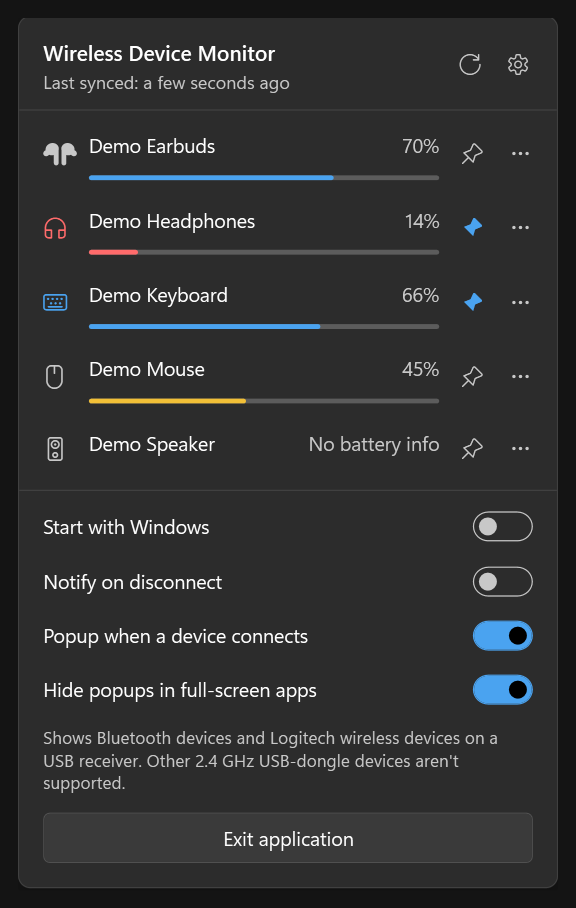
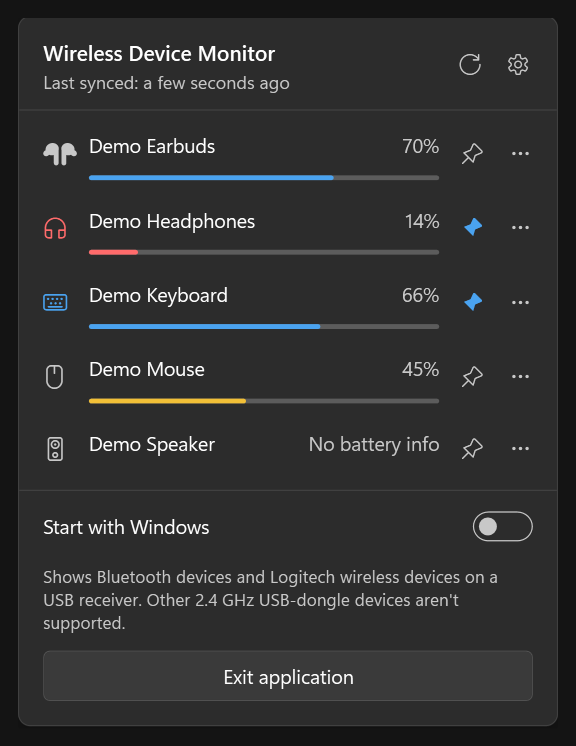
Show the second earbud going in within seconds; add a Notifications section to settings

diff --git a/src/App/FlyoutWindow.xaml b/src/App/FlyoutWindow.xaml
@@ -79,8 +79,12 @@
         <!-- Settings (shown with the gear button) -->
         <StackPanel x:Name="SettingsPanel" Visibility="Collapsed">
           <Border Height="1" Background="{DynamicResource Stroke}"/>
-          <Grid Margin="16,12,16,0">
-            <TextBlock Text="Low-battery notification" VerticalAlignment="Center"/>
+          <ScrollViewer MaxHeight="400" VerticalScrollBarVisibility="Auto">
+          <StackPanel>
+          <TextBlock Text="Notifications" Margin="16,12,16,0" FontSize="12" FontWeight="SemiBold" Foreground="{DynamicResource Fg2}"/>
+          <Grid Margin="16,10,16,0">
+            <TextBlock Text="Low battery" VerticalAlignment="Center"
+                       ToolTip="A popup when a device drops to the level below."/>
             <CheckBox x:Name="LowToggle" Style="{StaticResource Switch}" HorizontalAlignment="Right"
                       Click="LowToggle_Click" AutomationProperties.Name="Low-battery notification"/>
           </Grid>
@@ -95,6 +99,38 @@
                     ValueChanged="Threshold_Changed" AutomationProperties.Name="Low-battery threshold"/>
           </Grid>
           <Grid Margin="16,12,16,0">
+            <TextBlock Text="Device connected" VerticalAlignment="Center"
+                       ToolTip="A small pill drops down from the top of the screen for a few seconds. Devices on a USB receiver are left out."/>
+            <CheckBox x:Name="ConnectPopupToggle" Style="{StaticResource Switch}" HorizontalAlignment="Right"
+                      Click="ConnectPopupToggle_Click" AutomationProperties.Name="Popup when a device connects"/>
+          </Grid>
+          <Grid Margin="16,12,16,0">
+            <TextBlock Text="Pinned device disconnected" VerticalAlignment="Center"
+                       ToolTip="A Windows notification when a pinned device disconnects."/>
+            <CheckBox x:Name="DisconnectToggle" Style="{StaticResource Switch}" HorizontalAlignment="Right"
+                      Click="DisconnectToggle_Click" AutomationProperties.Name="Notify on disconnect"/>
+          </Grid>
+          <Grid Margin="16,12,16,0">
+            <TextBlock Text="Sound output changed" VerticalAlignment="Center"
+                       ToolTip="A popup naming the new output, however it was changed."/>
+            <CheckBox x:Name="OutputToggle" Style="{StaticResource Switch}" HorizontalAlignment="Right"
+                      Click="OutputToggle_Click" AutomationProperties.Name="Popup when the sound output changes"/>
+          </Grid>
+          <Grid Margin="16,12,16,0">
+            <TextBlock Text="Microphone changed" VerticalAlignment="Center"
+                       ToolTip="A popup naming the new microphone, however it was changed."/>
+            <CheckBox x:Name="InputToggle" Style="{StaticResource Switch}" HorizontalAlignment="Right"
+                      Click="InputToggle_Click" AutomationProperties.Name="Popup when the microphone changes"/>
+          </Grid>
+          <Grid Margin="16,12,16,0">
+            <TextBlock Text="Hide popups in full-screen apps" VerticalAlignment="Center"
+                       ToolTip="No popups while a game or video fills the screen. A low-battery warning goes to Windows notifications instead."/>
+            <CheckBox x:Name="QuietToggle" Style="{StaticResource Switch}" HorizontalAlignment="Right"
+                      Click="QuietToggle_Click" AutomationProperties.Name="Hide popups in full-screen apps"/>
+          </Grid>
+          <Border Height="1" Background="{DynamicResource Stroke}" Margin="0,14,0,0"/>
+          <TextBlock Text="General" Margin="16,12,16,0" FontSize="12" FontWeight="SemiBold" Foreground="{DynamicResource Fg2}"/>
+          <Grid Margin="16,10,16,0">
             <TextBlock Text="Accent colour" VerticalAlignment="Center"/>
             <StackPanel Orientation="Horizontal" HorizontalAlignment="Right">
               <RadioButton x:Name="AccentBlue" Style="{StaticResource Chip}" Content="Blue" GroupName="accent" Click="Accent_Click"/>
@@ -141,6 +177,8 @@
             </ItemsControl>
           </StackPanel>
           <Border Height="12"/>
+          </StackPanel>
+          </ScrollViewer>
         </StackPanel>
 
         <!-- Footer -->
@@ -149,23 +187,6 @@
           <TextBlock Text="Start with Windows" VerticalAlignment="Center"/>
           <CheckBox x:Name="StartToggle" Style="{StaticResource Switch}" HorizontalAlignment="Right"
                     Click="StartToggle_Click" AutomationProperties.Name="Start with Windows"/>
-        </Grid>
-        <Grid Margin="16,16,16,0">
-          <TextBlock Text="Notify on disconnect" VerticalAlignment="Center" ToolTip="Applies to pinned devices"/>
-          <CheckBox x:Name="DisconnectToggle" Style="{StaticResource Switch}" HorizontalAlignment="Right"
-                    Click="DisconnectToggle_Click" AutomationProperties.Name="Notify on disconnect"/>
-        </Grid>
-        <Grid Margin="16,16,16,0">
-          <TextBlock Text="Popup when a device connects" VerticalAlignment="Center"
-                     ToolTip="A small pill drops down from the top of the screen for a few seconds. Devices on a USB receiver are left out."/>
-          <CheckBox x:Name="ConnectPopupToggle" Style="{StaticResource Switch}" HorizontalAlignment="Right"
-                    Click="ConnectPopupToggle_Click" AutomationProperties.Name="Popup when a device connects"/>
-        </Grid>
-        <Grid Margin="16,16,16,0">
-          <TextBlock Text="Hide popups in full-screen apps" VerticalAlignment="Center"
-                     ToolTip="No popups while a game or video fills the screen. A low-battery warning goes to Windows notifications instead."/>
-          <CheckBox x:Name="QuietToggle" Style="{StaticResource Switch}" HorizontalAlignment="Right"
-                    Click="QuietToggle_Click" AutomationProperties.Name="Hide popups in full-screen apps"/>
         </Grid>
         <TextBlock Margin="16,14,16,0" TextWrapping="Wrap" FontSize="11.5" Foreground="{DynamicResource Fg2}"
                    Text="Shows Bluetooth devices and Logitech wireless devices on a USB receiver. Other 2.4 GHz USB-dongle devices aren't supported."/>

diff --git a/src/App/App.xaml b/src/App/App.xaml
@@ -7,6 +7,45 @@
          are set from code in Theme.cs so they follow the Windows light/dark setting. -->
     <FontFamily x:Key="Icons">Segoe Fluent Icons, Segoe MDL2 Assets</FontFamily>
 
+    <!-- A slim scroll bar that matches the panel: just a rounded thumb, no arrows and no track. -->
+    <Style x:Key="SlimThumb" TargetType="Thumb">
+      <Setter Property="Template">
+        <Setter.Value>
+          <ControlTemplate TargetType="Thumb">
+            <Border x:Name="t" CornerRadius="2" Background="{DynamicResource Fg2}" Opacity="0.45" Margin="2,0"/>
+            <ControlTemplate.Triggers>
+              <Trigger Property="IsMouseOver" Value="True"><Setter TargetName="t" Property="Opacity" Value="0.75"/></Trigger>
+              <Trigger Property="IsDragging" Value="True"><Setter TargetName="t" Property="Opacity" Value="0.9"/></Trigger>
+            </ControlTemplate.Triggers>
+          </ControlTemplate>
+        </Setter.Value>
+      </Setter>
+    </Style>
+    <Style x:Key="ScrollPage" TargetType="RepeatButton">
+      <Setter Property="Focusable" Value="False"/>
+      <Setter Property="Template">
+        <Setter.Value>
+          <ControlTemplate TargetType="RepeatButton"><Border Background="Transparent"/></ControlTemplate>
+        </Setter.Value>
+      </Setter>
+    </Style>
+    <Style TargetType="ScrollBar">
+      <Setter Property="Width" Value="8"/>
+      <Setter Property="MinWidth" Value="8"/>
+      <Setter Property="Background" Value="Transparent"/>
+      <Setter Property="Template">
+        <Setter.Value>
+          <ControlTemplate TargetType="ScrollBar">
+            <Track x:Name="PART_Track" IsDirectionReversed="True" Margin="0,4">
+              <Track.DecreaseRepeatButton><RepeatButton Style="{StaticResource ScrollPage}" Command="ScrollBar.PageUpCommand"/></Track.DecreaseRepeatButton>
+              <Track.Thumb><Thumb Style="{StaticResource SlimThumb}"/></Track.Thumb>
+              <Track.IncreaseRepeatButton><RepeatButton Style="{StaticResource ScrollPage}" Command="ScrollBar.PageDownCommand"/></Track.IncreaseRepeatButton>
+            </Track>
+          </ControlTemplate>
+        </Setter.Value>
+      </Setter>
+    </Style>
+
     <Style x:Key="IconButton" TargetType="Button">
       <Setter Property="Width" Value="32"/>
       <Setter Property="Height" Value="32"/>

diff --git a/src/App/AppController.cs b/src/App/AppController.cs
@@ -20,7 +20,8 @@ public sealed class AppController
     readonly PodsTracker _podsTracker = new();
     IReadOnlyList<DeviceReading> _raw = [];
     DateTime _lastListen = DateTime.MinValue;
-    bool _listening;
+    bool _listening, _heardPods = true;
+    readonly DispatcherTimer _podsTimer = new() { Interval = TimeSpan.FromSeconds(4) };
 
     public Settings Settings { get; }
     public HistoryStore History { get; }
@@ -55,6 +56,7 @@ public sealed class AppController
         Demo?.SeedHistory(History, DateTime.UtcNow);
         _timer = new DispatcherTimer { Interval = ScanInterval };
         _timer.Tick += async (_, _) => await RefreshAsync();
+        _podsTimer.Tick += async (_, _) => await ListenForPodsAsync();
     }
 
     public void Start()
@@ -89,14 +91,21 @@ public sealed class AppController
     /// </summary>
     async Task ListenForPodsAsync()
     {
-        if (_pods is null || _listening || !PodsTracker.Wanted(_raw)) return;
+        if (_pods is null) return;
         var now = DateTime.UtcNow;
-        bool known = _podsTracker.Enrich(_raw, now).Any(d => d.Pods is not null);
-        if (known && now - _lastListen < TimeSpan.FromMinutes(2)) return;
+        bool wanted = PodsTracker.Wanted(_raw);
+        var current = wanted ? _podsTracker.Enrich(_raw, now) : _raw;
+        bool known = current.Any(d => d.Pods is not null), oneInEar = wanted && PodsTracker.OneInEar(current);
+        // While one bud is being worn the regular 30-second scan is too slow to notice the second one going in,
+        // so a faster timer keeps listening until both are in (or out).
+        _podsTimer.IsEnabled = oneInEar;
+        if (!wanted || _listening) return;
+        if (now - _lastListen < PodsTracker.ListenGap(known, oneInEar, _heardPods)) return;
         _listening = true;
         try
         {
-            var heard = await _pods.ListenAsync(TimeSpan.FromSeconds(5));
+            var heard = await _pods.ListenAsync(TimeSpan.FromSeconds(oneInEar ? 2 : 5));
+            _heardPods = heard.Any(h => h.Rssi >= PodsTracker.MinRssi);
             _lastListen = DateTime.UtcNow;
             if (_podsTracker.Update(heard, _lastListen))
             {
@@ -105,7 +114,11 @@ public sealed class AppController
             }
         }
         catch (Exception e) { Log(e); }
-        finally { _listening = false; }
+        finally
+        {
+            _listening = false;
+            _podsTimer.IsEnabled = PodsTracker.Wanted(_raw) && PodsTracker.OneInEar(Devices);
+        }
     }
 
     void Apply(IReadOnlyList<DeviceReading> list)

diff --git a/tests/Program.cs b/tests/Program.cs
@@ -575,6 +575,12 @@ Check(BluetoothConnector.Classify(false, 1, false) == BluetoothConnector.OutputK
 Check(BluetoothConnector.Classify(true, 1, true) == BluetoothConnector.OutputKind.Bluetooth, "a Bluetooth output is never taken for the PC's own speakers");
 Check(BluetoothConnector.Classify(false, 3, true) == BluetoothConnector.OutputKind.Headphones && BluetoothConnector.Classify(false, 9, false) == BluetoothConnector.OutputKind.Display, "wired headphones and a screen's speakers are told apart");
 Check(BluetoothConnector.Classify(false, 4, true, input: true) == BluetoothConnector.OutputKind.BuiltIn && BluetoothConnector.Classify(false, 4, false, input: true) == BluetoothConnector.OutputKind.Speakers, "the PC's own microphone is told apart from a plugged-in one");
+Check(PodsTracker.ListenGap(known: true, oneInEar: true, heardLastTime: true) <= TimeSpan.FromSeconds(4), "one bud worn: listening repeats within a few seconds");
+Check(PodsTracker.ListenGap(true, false, true) >= TimeSpan.FromSeconds(20) && PodsTracker.ListenGap(true, true, false) >= TimeSpan.FromMinutes(1), "both worn or silent earbuds: listening stays occasional");
+Check(PodsTracker.ListenGap(false, false, false) == TimeSpan.Zero, "nothing known yet: listen straight away");
+Check(PodsTracker.OneInEar([new DeviceReading("A", "x", DeviceKind.Headphones, true, 80) { Pods = new PodLevels(1, 80, 80, null, LeftInEar: true) }])
+      && !PodsTracker.OneInEar([new DeviceReading("A", "x", DeviceKind.Headphones, true, 80) { Pods = new PodLevels(1, 80, 80, null, LeftInEar: true, RightInEar: true) }]), "one bud worn is told apart from both worn");
+Check(new Settings().OutputPopup && new Settings().InputPopup, "output and microphone popups are on by default");
 Check(new Settings().QuietInFullScreen, "popups are held back in full-screen apps by default");
     Check(System.Text.Json.JsonSerializer.Deserialize<Settings>("{\"QuietInFullScreen\":false}")!.QuietInFullScreen == false, "the full-screen setting is read back from the settings file");
 }

diff --git a/src/Core/ApplePods.cs b/src/Core/ApplePods.cs
@@ -151,6 +151,22 @@ public sealed class PodsTracker
     public PodLevels? GetAny(DateTime utcNow) => _current.Values
         .Where(c => utcNow - c.At < MaxAge).OrderByDescending(c => c.At).Select(c => c.Levels).FirstOrDefault();
 
+    /// <summary>
+    /// How long to wait between listening bursts. Listening uses the Bluetooth radio, so it is done only as
+    /// often as there is something to learn: at once while nothing is known yet; rarely while the earbuds are
+    /// silent (in their closed case); every few seconds while exactly one bud is being worn, so that putting
+    /// the second one in shows straight away; otherwise with every regular scan.
+    /// </summary>
+    public static TimeSpan ListenGap(bool known, bool oneInEar, bool heardLastTime) =>
+        !known ? TimeSpan.Zero
+        : !heardLastTime ? TimeSpan.FromMinutes(2)
+        : oneInEar ? TimeSpan.FromSeconds(3)
+        : TimeSpan.FromSeconds(25);
+
+    /// <summary>True while exactly one bud of some connected earbuds is being worn.</summary>
+    public static bool OneInEar(IEnumerable<DeviceReading> devices) =>
+        devices.Any(d => d is { Connected: true, Pods: { } p } && p.LeftInEar != p.RightInEar);
+
     /// <summary>True if a connected Apple audio device has no level from Windows, i.e. listening is worthwhile.</summary>
     public static bool Wanted(IEnumerable<DeviceReading> devices) => devices.Any(NeedsPods);
 

diff --git a/src/App/FlyoutWindow.xaml.cs b/src/App/FlyoutWindow.xaml.cs
@@ -143,6 +143,8 @@ public partial class FlyoutWindow : Window
         DisconnectToggle.IsChecked = s.NotifyOnDisconnect;
         ConnectPopupToggle.IsChecked = s.ConnectPopup;
         QuietToggle.IsChecked = s.QuietInFullScreen;
+        OutputToggle.IsChecked = s.OutputPopup;
+        InputToggle.IsChecked = s.InputPopup;
         LowToggle.IsChecked = s.LowBatteryNotify;
         ThresholdSlider.Value = s.LowBatteryThreshold;
         ThresholdSlider.IsEnabled = s.LowBatteryNotify;
@@ -285,6 +287,12 @@ public partial class FlyoutWindow : Window
 
     void QuietToggle_Click(object sender, RoutedEventArgs e) =>
         _c.Change(s => s.QuietInFullScreen = QuietToggle.IsChecked == true);
+
+    void OutputToggle_Click(object sender, RoutedEventArgs e) =>
+        _c.Change(s => s.OutputPopup = OutputToggle.IsChecked == true);
+
+    void InputToggle_Click(object sender, RoutedEventArgs e) =>
+        _c.Change(s => s.InputPopup = InputToggle.IsChecked == true);
 
     void DisconnectToggle_Click(object sender, RoutedEventArgs e) =>
         _c.Change(s => s.NotifyOnDisconnect = DisconnectToggle.IsChecked == true);

diff --git a/src/Core/Settings.cs b/src/Core/Settings.cs
@@ -22,6 +22,10 @@ public sealed class Settings
     public bool NotifyOnDisconnect { get; set; }
     /// <summary>Show a small popup at the top of the screen when a Bluetooth device connects.</summary>
     public bool ConnectPopup { get; set; } = true;
+    /// <summary>Show a popup when Windows' sound output changes, however it was changed.</summary>
+    public bool OutputPopup { get; set; } = true;
+    /// <summary>Show a popup when the microphone Windows listens through changes.</summary>
+    public bool InputPopup { get; set; } = true;
     /// <summary>Hold popups back while an app that fills the whole screen is in front (games, full-screen video).</summary>
     public bool QuietInFullScreen { get; set; } = true;
     /// <summary>"Blue" (default) or "System" (Windows accent colour).</summary>

diff --git a/src/App/App.xaml.cs b/src/App/App.xaml.cs
@@ -230,6 +230,7 @@ public partial class App : Application
             var now = await Task.Run(() => input ? BluetoothConnector.DescribeInput() : BluetoothConnector.DescribeOutput());
             if (now is null || now.Id == (input ? _lastInput : _lastOutput)) return;
             if (input) _lastInput = now.Id; else _lastOutput = now.Id;
+            if (!(input ? _c!.Settings.InputPopup : _c!.Settings.OutputPopup)) return;
             var kind = input ? PopupKind.Input : PopupKind.Output;
             if (await _c!.DeviceForOutputAsync(now.Id, input) is { } device) { ConnectPopup.Announce(_c, device, kind); return; }
             ConnectPopup.Announce(_c, OutputAsDevice(now, HasBattery(), input), kind, OutputGlyph(now.Kind, HasBattery(), input));

diff --git a/docs/DECISIONS.md b/docs/DECISIONS.md
@@ -73,3 +73,6 @@ One line each: decision — why.
 - **Renamed from "BT Battery Indicator" to "Wireless Device Monitor" (owner's choice, 2026-11-27)** - the app now covers Logitech receiver devices, connections and sound output, so "BT" and "Battery" both undersold it. The installer replaces a copy installed under the old name and carries over its settings, history, shortcuts and start-with-Windows switch; the app also moves the old settings folder itself if it finds one.
 - **The ten-minute memory clean-up is removed; the cause is fixed instead (2026-11-27)** - measured with `--memlog` and no clean-up: committed memory stays flat (about 50-55 MB) and RAM in use levels off, so there is no leak. Two things made the numbers move. (1) The clean-up pushes the app's memory out of RAM; the next device scan needs most of it and Windows fetches it straight back, which looked like growth. Repeating the push only repeated the fetch. (2) .NET lets short-lived memory pile up to a budget sized for the processor (16 MB measured here, `--gc-probe`) before clearing it; at about 0.2 MB a minute idle that is over an hour of slow creep. `System.GC.Gen0MaxBudget` now caps the pile at 4 MB. The one-off clean-up after the panel or a popup closes stays: that memory really is not wanted again for a while.
 - **Deferred: exact (1%) AirPods battery (owner's call, 2026-11-27)** - researched, not built. Preferred route if picked up: decrypt the 16-byte encrypted part of the broadcast the app already receives (standard AES, built into .NET) with the earbuds' own key, entered once by the user; the app stays receive-only. The key can only be fetched over a channel Windows blocks, so today it needs a Linux PC or live USB (the MyPods project fetches it). Confirmed by others only on AirPods Pro 2, Pro 3 and Max; how long a key stays valid is not documented. Ruled out for now: talking to the earbuds through a kernel driver. None of the open drivers is signed by Microsoft, so they need driver-signature enforcement off or test-signing mode, plus administrator rights. Revisit that only if a Microsoft-signed driver appears.
+- **Earbud listening speeds up while exactly one bud is worn (requested, 2026-11-27)** - the 30-second scan was too slow to show the second bud going in. While one bud is in an ear the app listens for about two seconds every four; in every other state it listens once per scan, and only every two minutes when the earbuds were silent last time (closed case). Listening uses the Bluetooth radio, so the fast pace is limited to the one state where a change is expected.
+- **Settings gained a Notifications section (requested, 2026-11-27)** - every popup and notification has its own switch in one place, including new ones for sound-output and microphone changes. The three switches that sat under the device list moved there; the settings area scrolls, with a slim scroll bar, so the panel still fits a 1080p screen.
+- **Not possible without a kernel driver: showing or changing the AirPods noise-control mode (2026-11-27)** - both travel over the earbuds' private control channel, which Windows opens only to kernel drivers. The broadcast the app listens to is not known to carry the mode. Same wall as exact battery; see the deferred entry above.

diff --git a/docs/SPEC.md b/docs/SPEC.md
@@ -60,3 +60,5 @@ Popup motion (2026-11-26): measured in demo mode at 85 to 89 frames per 0.55-sec
 R20 (2026-11-27): a pill appears whenever Windows' sound output changes, however it was changed (the strip, Windows' sound menu, a device connecting or leaving): name and "Output set". The PC's own speakers show as "Laptop speakers" with a laptop icon ("PC speakers" on a PC without a battery); a screen's speakers get a screen icon. The same for the microphone: "Input set", "Laptop microphone". Left out: the pill for a device that showed "Connected" in the last 8 seconds. Windows reports the changes; nothing is polled. Status: AUTO for telling the kinds apart; pill pictures checked; on the development PC the current output and microphone are read correctly and Windows accepts the listener. Confirmed by hand 2026-11-27: changing the output shows the pill, including for the laptop speakers. Not done: a microphone change seen by hand.
 R13 addition (2026-11-27): no timer-driven memory clean-up. Idle memory is kept level by limiting how much short-lived memory .NET lets pile up (4 MB instead of the measured 16 MB). Status: limit confirmed with `--gc-probe` (4.0 MB); ten idle minutes without any clean-up showed committed memory flat at 50-55 MB. Popup frame timing with and without the limit was compared but the PC was in use, so that comparison is inconclusive (no consistent difference seen).
 Deferred (2026-11-27): exact 1% battery for Apple earbuds. Levels stay in 10% steps. Reasons and the preferred route are in DECISIONS.md.
+R21 (2026-11-27): while exactly one earbud is worn the app listens every few seconds, so the display switches to the pair within about five seconds of the second bud going in. Status: AUTO for the pacing rules. Not done: seen by hand with real earbuds.
+R22 (2026-11-27): settings have a Notifications section with one switch each for low battery (and its level), device connected, pinned device disconnected, sound output changed, microphone changed, and hiding popups in full-screen apps. Status: AUTO for the defaults; layout checked from screenshots. Not done: each switch tried by hand.

diff --git a/README.md b/README.md
@@ -77,7 +77,7 @@ Uninstall: `powershell -ExecutionPolicy Bypass -File install.ps1 -Uninstall` (ad
 - **Click a pinned device that is not connected** (on the taskbar strip): asks Windows to connect it. Works for headphones, earbuds and speakers.
 - **Click a connected headphone, earbud or speaker** on the strip: Windows plays sound through it, instead of the PC speakers or whatever was playing before. If it is already playing, the click opens the panel.
 - **Click a row** or the **…** button: battery history, rename, hide.
-- **Gear** button: low-battery notification level, accent colour, taskbar strip or tray icons, Logitech reading, a keyboard shortcut to open the panel, hidden devices.
+- **Gear** button: a switch for each notification (low battery and its level, device connected or disconnected, sound output or microphone changed, quiet in full-screen apps), accent colour, taskbar strip or tray icons, Logitech reading, a keyboard shortcut to open the panel, hidden devices.
 
 ## Build from source (one command)
 
